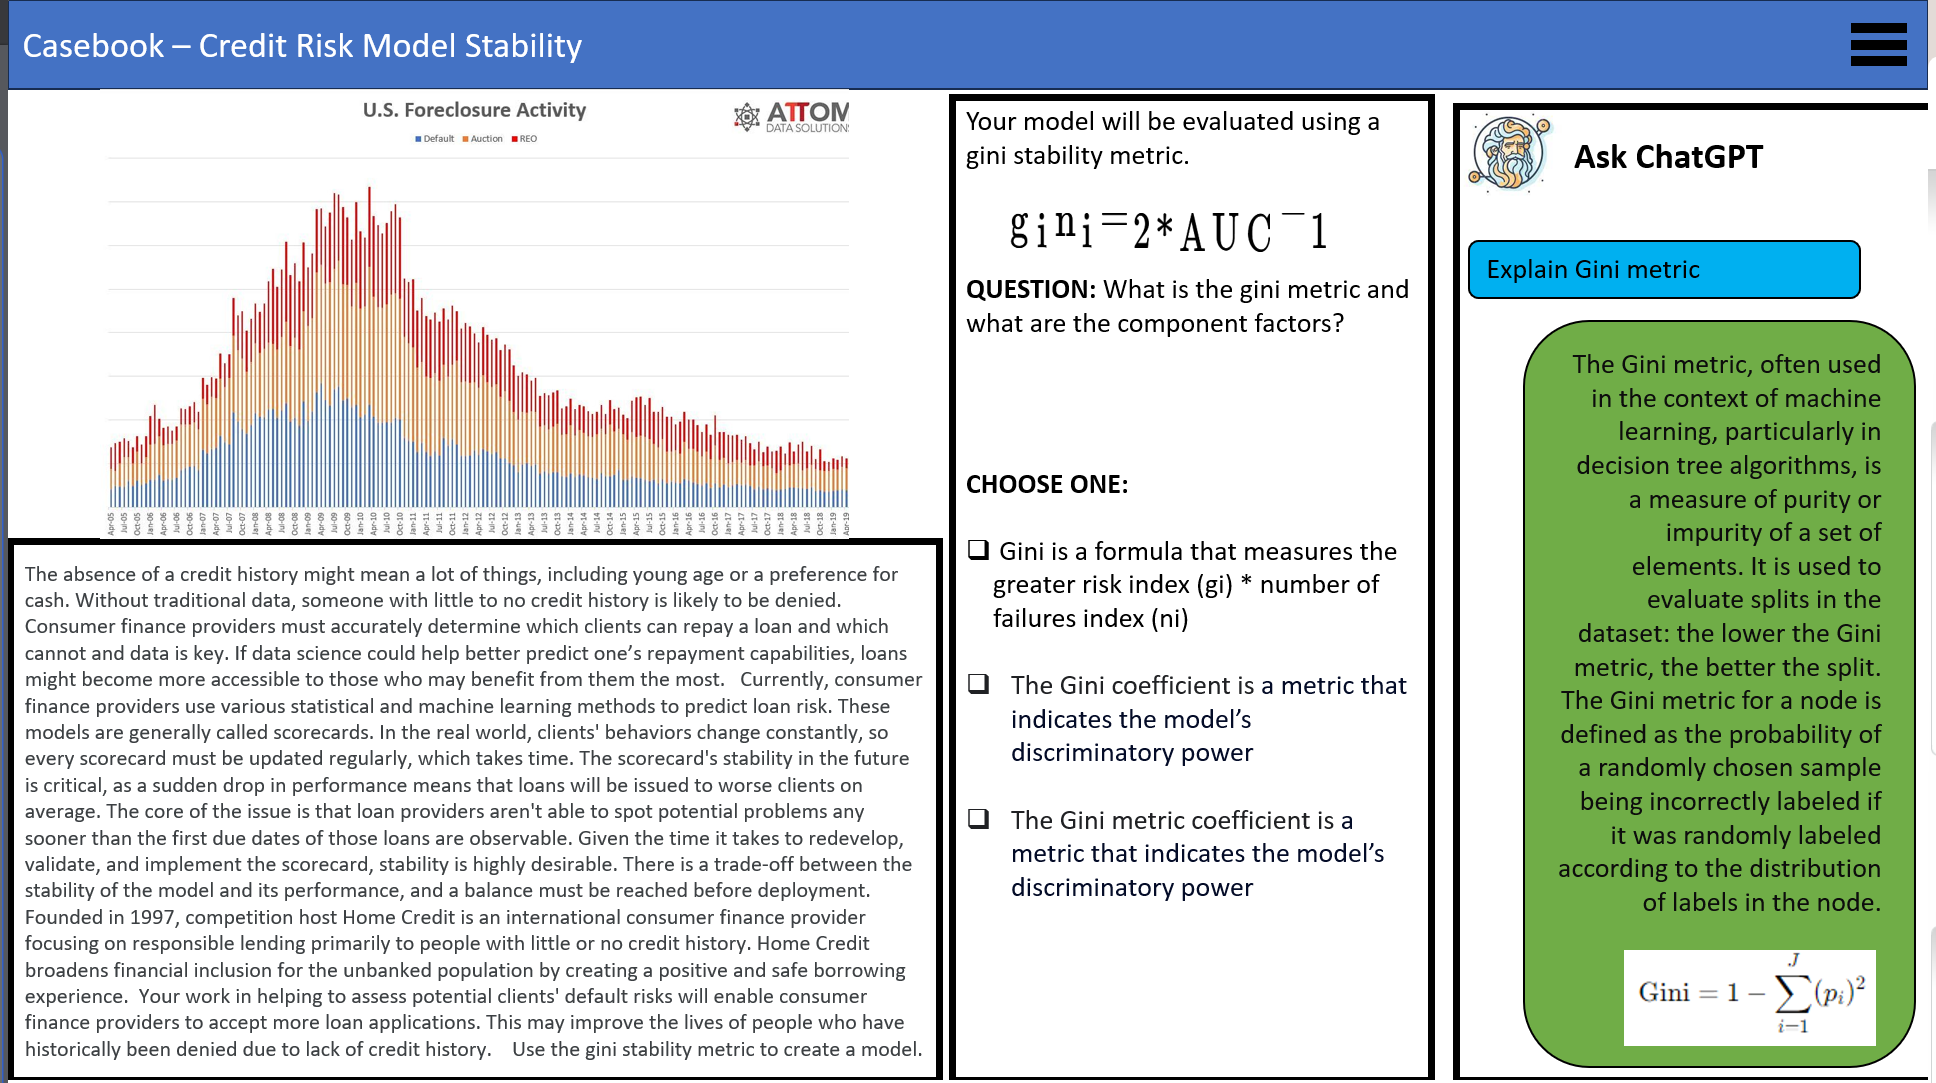
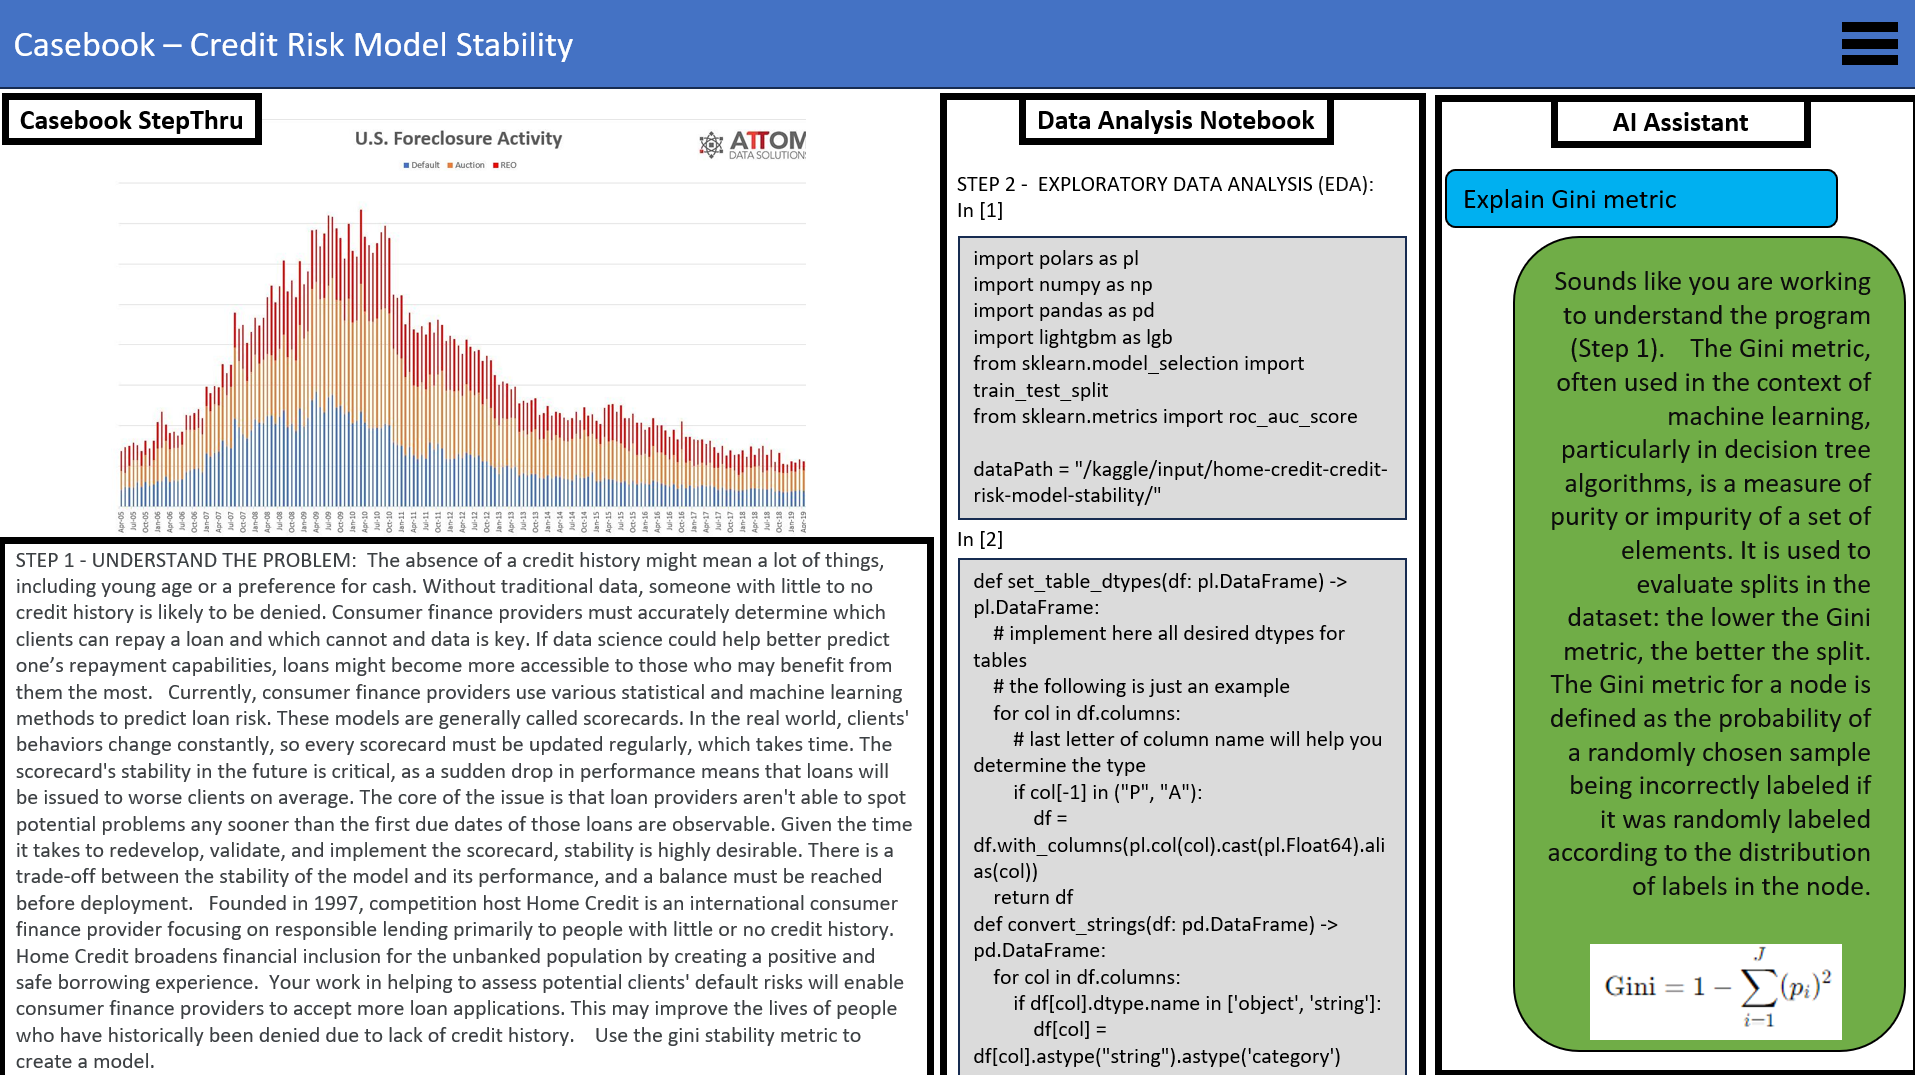
update team and design principles

diff --git a/index.html b/index.html
@@ -8,7 +8,7 @@
     />
     <meta name="description" content="" />
     <meta name="author" content="" />
-    <title>Firefly Zero Day</title>
+    <title>Kagglizer</title>
     <!-- Favicon-->
     <link rel="icon" type="image/x-icon" href="assets/favicon.ico" />
     <!-- Core theme CSS (includes Bootstrap)-->
@@ -75,12 +75,11 @@
         </div>
         <!-- <div class="col-lg-5"> -->
         <div class="col-lg-6 d-flex flex-column justify-content-center">
-          <h1 class="font-weight-light">
-            Data science problem solving with assistant with MS Fabric and Azure
-            OpenAI.
-          </h1>
+          <h1 class="font-weight-light">A data science educational tool</h1>
           <p>
-            <strong>15 FEB - 4 MAR 2024:</strong> Microsoft Global AI Hackathon.
+            <strong>15 FEB - 4 MAR 2024:</strong> Prototyped at Microsoft Global
+            AI Hackathon using Fabric, Synapse Data Enginnering, Azure OpenAi,
+            C#/NET, SQL Server, and PowerPages.
           </p>
           <!-- <p>
             <strong>10 FEB 2024:</strong> Won 1st place in 'most innovative
@@ -94,10 +93,28 @@
             <strong>1 FEB 2024:</strong> We published the demo video educational
             game.
           </p> -->
+
           <p>
             <a
               class="btn btn-success"
-              href="https://https://devpost.com/software/kagglizer"
+              href="https://www.twitch.tv/thanester/schedule"
+              >Watch our informal Hackathon Standup on Twitch, or not, depends
+              who shows. Sometimes just one person trying to figure out obscure
+              problem, maybe you could help?</a
+            >
+          </p>
+          <p>
+            <a
+              class="btn btn-success"
+              href="https://www.kaggle.com/competitions/home-credit-credit-risk-model-stability"
+              >Read the Kaggle problem we are using as content</a
+            >
+          </p>
+
+          <p>
+            <a
+              class="btn btn-success"
+              href="https://devpost.com/software/kagglizer"
               >Read our Project Report on Devpost</a
             >
           </p>
@@ -123,13 +140,17 @@
             <div class="card-body">
               <h2 class="card-title">About Us</h2>
               <p class="card-text">
-                We take inspiration from a data science student's questions and
-                tuned AI answers those questions with world's worth of written
-                knowledge provides.
+                We take inspiration from the promise of AI in education to
+                answer student's specific and situation dependent questions.
+                Someday soon, students will have very attentive and endinglessly
+                patient tutors bringing the a world's worth of knowledge to bear
+                on student questions.
               </p>
             </div>
             <div class="card-footer">
-              <a class="btn btn-success btn-sm" href="aboutus.html">Team</a>
+              <a class="btn btn-success btn-sm" href="aboutus.html"
+                >Meet the Team</a
+              >
             </div>
             <!-- <div class="card-footer">
               <a class="btn btn-primary btn-sm" href="#!">More Info</a>
@@ -141,13 +162,14 @@
             <div class="card-body">
               <h2 class="card-title">View Mockup</h2>
               <p class="card-text">
-                Our fusion of data Fabric and AI helps solve the most difficult
-                data science problems with a tuned AI assistant.
+                Our tri-panel fusion of problem understand, coding, and context
+                tuned AI aims to help solve the most difficult data science
+                challenges.
               </p>
             </div>
             <div class="card-footer">
               <a class="btn btn-success btn-sm" href="kagglizermockup.html"
-                >Mockup</a
+                >View Mockup</a
               >
             </div>
             <!-- <div class="card-footer">
@@ -160,9 +182,8 @@
             <div class="card-body">
               <h2 class="card-title">Standby for Video</h2>
               <p class="card-text">
-                We making the fullstack work on local machines with portions
-                working on Azure and Fabric Platform. Frontend was in React,
-                midtier in #C and Python, and backend was on Cloud SQL.
+                A demo video is due no later than 4 MAR 2024. We will post the
+                work on Github as well.
               </p>
             </div>
             <!-- <div class="card-footer">
@@ -180,7 +201,7 @@
     <footer class="py-4 bg-success">
       <div class="container px-4 px-lg-5">
         <p class="m-0 text-center text-white">
-          Copyright &copy; Kagglizer 2024. <br />
+          Wishfully &copy; Kagglizer 2024. <br />
         </p>
       </div>
     </footer>

diff --git a/kagglizermockup.html b/kagglizermockup.html
@@ -88,22 +88,29 @@
           />
           <br><br/>
           <div class="container-bullets">
-            <h3>Key Design Ideas</h3>
-            <ul>
-                <li>Data tells a story, sometimes we need help finding that plotline, and an AI assistant can help.</li>
-                <br/>
-                <li>We use content developed by real data science professional.  Our problem solving recommendations will be balanced between student progress and the problem solving standards.</li>
-                <br/>
-                <li>Problem solving steps will be built into a digital library of problem solving approaches, the AI assistant will tie stage of problem solving to assistance.</li>
-                <br/>
-                <li>Y.</li>
-                <br/>
-                <li>Z.</li>
-                <br/>
-                <li>AA.</li>
-                <br/>
-                <li>BB</li>
-            </ul>
+            <h3>Prioritized Design Objectives</h3>
+            <br/>
+            <ol>
+              <li><strong>HELP SOLVE THE MYSTERY - </strong>
+                Often, the analyst must uncover a story hidden in the data. Our tool must assist the analyst step through the problem-solving process with an AI assistant.</li>
+              <br/>
+              <li><strong>INTUITIVE USER INTERFACE - </strong>
+                Design an intuitive and user-friendly tri-panel interface that allows users to easily navigate through the problem data, analytic notebook, and interact with an AI assistant.</li>
+              <br/>
+              <li><strong>SYNCHRONIZATION OF PANELS - </strong>Implement synchronization of tri-panels based on problem-solving steps to coordinate problem understanding, solution work, and AI assistance to keep the analyst on track. Ideally, the AI assistant will synchronize with the problem-solving steps so that algorithms can automatically generate insights and patterns from the data, helping users uncover hidden relationships and trends without manual exploration.</li>
+              <br/>
+              <li><strong>TRI-PANEL 1: CASEBOOK AND REFERENCE THROUGH STEPS - </strong>
+                Provide a fusion of problem background information with classic data science problem-solving algorithm steps. This may be accomplished using API calls to a curated Azure SQL database or potentially using Retrieval-Augmented Generation (RAG) where the AI has specific problem and data science textbooks embedded.</li>
+              <br/>
+              <li><strong>TRI-PANEL 2: PYTHON-BASED SOLVING TOOLS - </strong>
+                Enable use of tools for data exploration, including summary statistics, data profiling, and visualizations such as histograms, scatter plots, and heatmaps. This may be accomplished using MS Synapse Data Engineering tools or API calls to Azure Services.</li>
+              <br/>
+              <li><strong>TRI-PANEL 3: AI ASSISTANT - </strong>Enable users to ask questions of an AI assistant tuned to the specific problem, domain references, and data science methodology.  Initially, this may be accomplished with an API call to Azure OpenAi. Later, we need to ensure the AI is prompted by the analyst's step of work and relevent references.  </li>
+              <br/>
+              <li><strong>INTERACTIVE STORYTELLING - </strong>At the end of the solving work, the record of human and AI-generated text and code solutions is used to create interactive narratives or stories based on their analysis, allowing the user to convey their findings and solutions effectively to stakeholders, team members, or competition judging boards.</li>
+              <br/>
+              <li><strong>PROBLEM-SOLVING RECOMMENDATIONS - </strong>In the backend, classic problem-solving steps will be built into a digital library of problem-solving approaches. The AI assistant will provide assistance based on the stage of problem-solving. We use content developed by real data science professionals. Our problem-solving recommendations will be balanced between student progress and problem-solving standards.</li>
+          </ol>
         </div>
         <br><br/>
         </div>
@@ -111,7 +118,7 @@
     <!-- Footer-->
     <footer class="py-4 bg-success">
       <div class="container px-4 px-lg-5">
-        <p class="m-0 text-center text-white">Copyright &copy; Kagglizer 2024</p>
+        <p class="m-0 text-center text-white">Wishfully &copy; Kagglizer 2024</p>
       </div>
     </footer>
     <!-- Bootstrap core JS-->

diff --git a/aboutus.html b/aboutus.html
@@ -182,7 +182,7 @@
           <br />
           <a
             class="btn btn-success align-items-center"
-            href="mailto:team@firefly-adventures.com"
+            href="mailto:team@kagglizer.com"
             >Say hi to team via email or individually via LinkedIn below.</a
           >
           <br />
@@ -201,7 +201,7 @@
     <footer class="py-4 bg-success">
       <div class="container px-4 px-lg-5">
         <p class="m-0 text-center text-white">
-          Copyright &copy; Kagglizer 2024
+          Wishfully &copy; Kagglizer 2024
         </p>
       </div>
     </footer>
